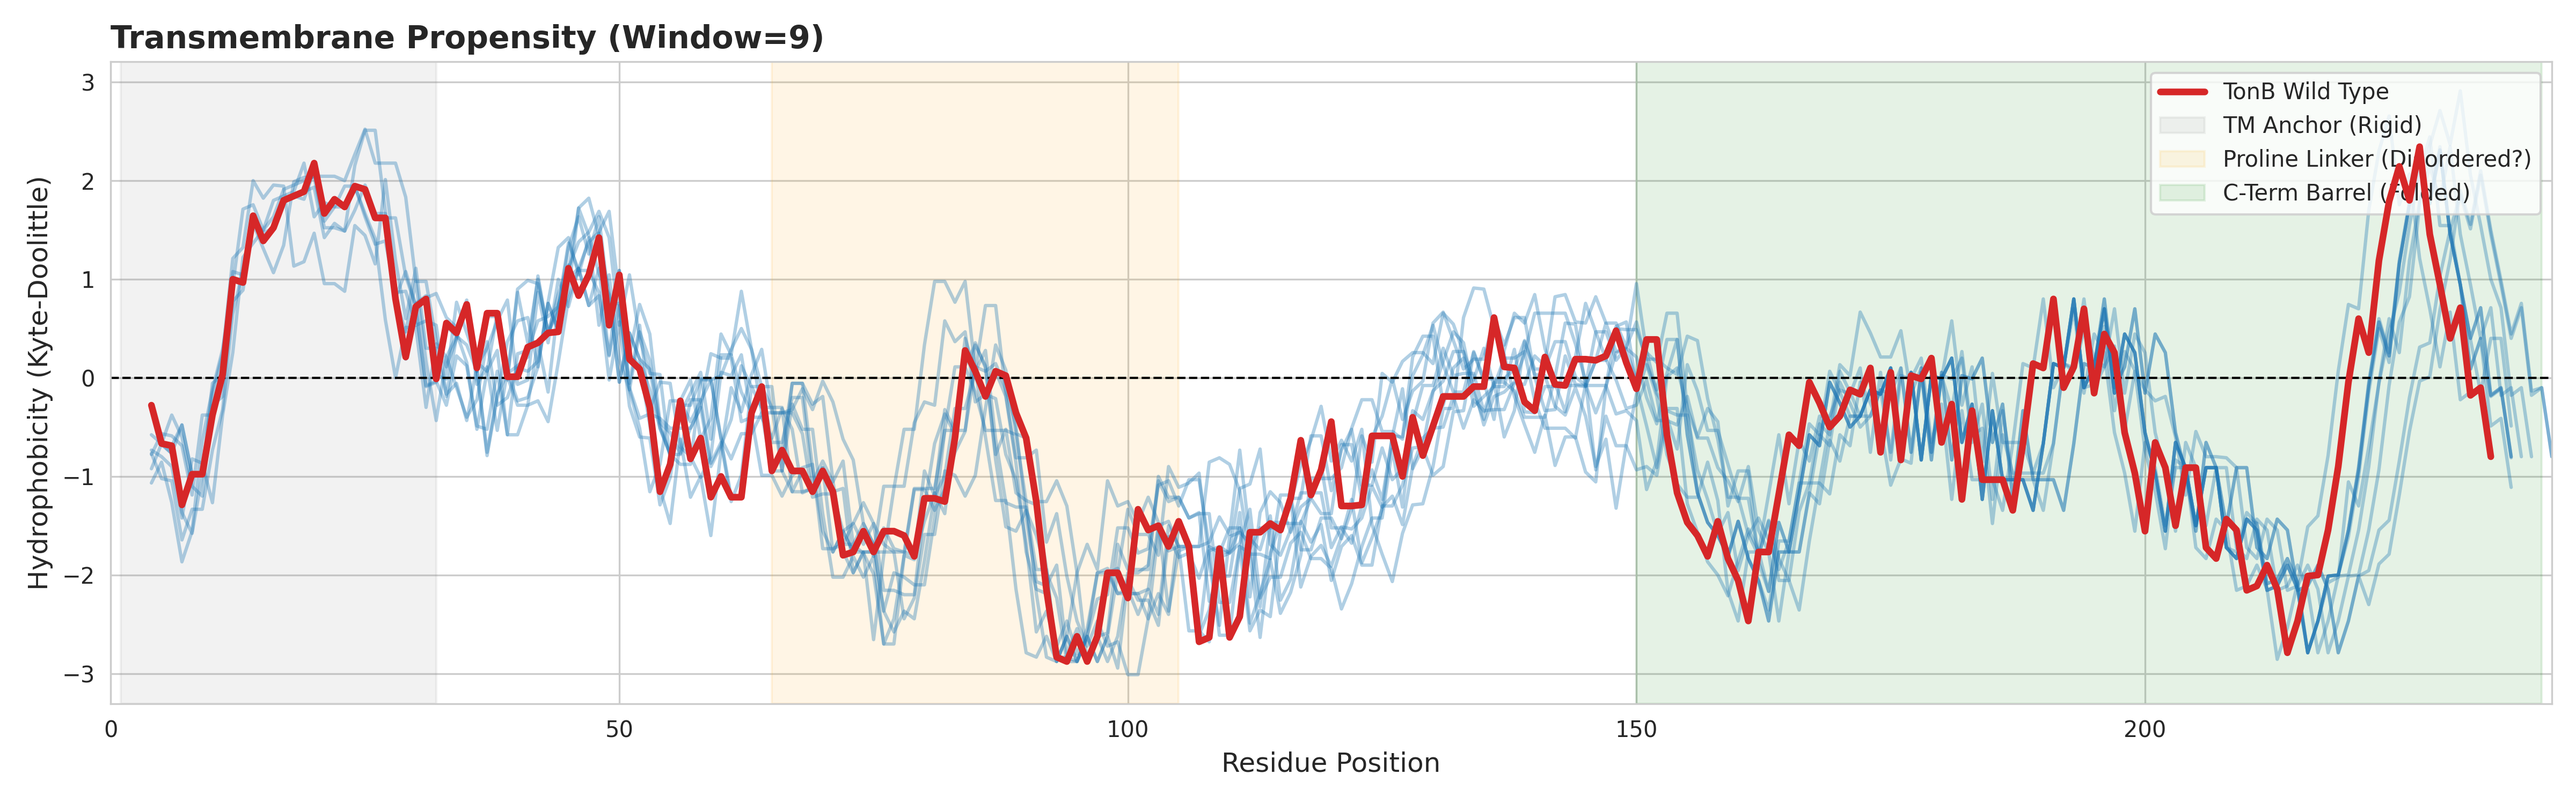
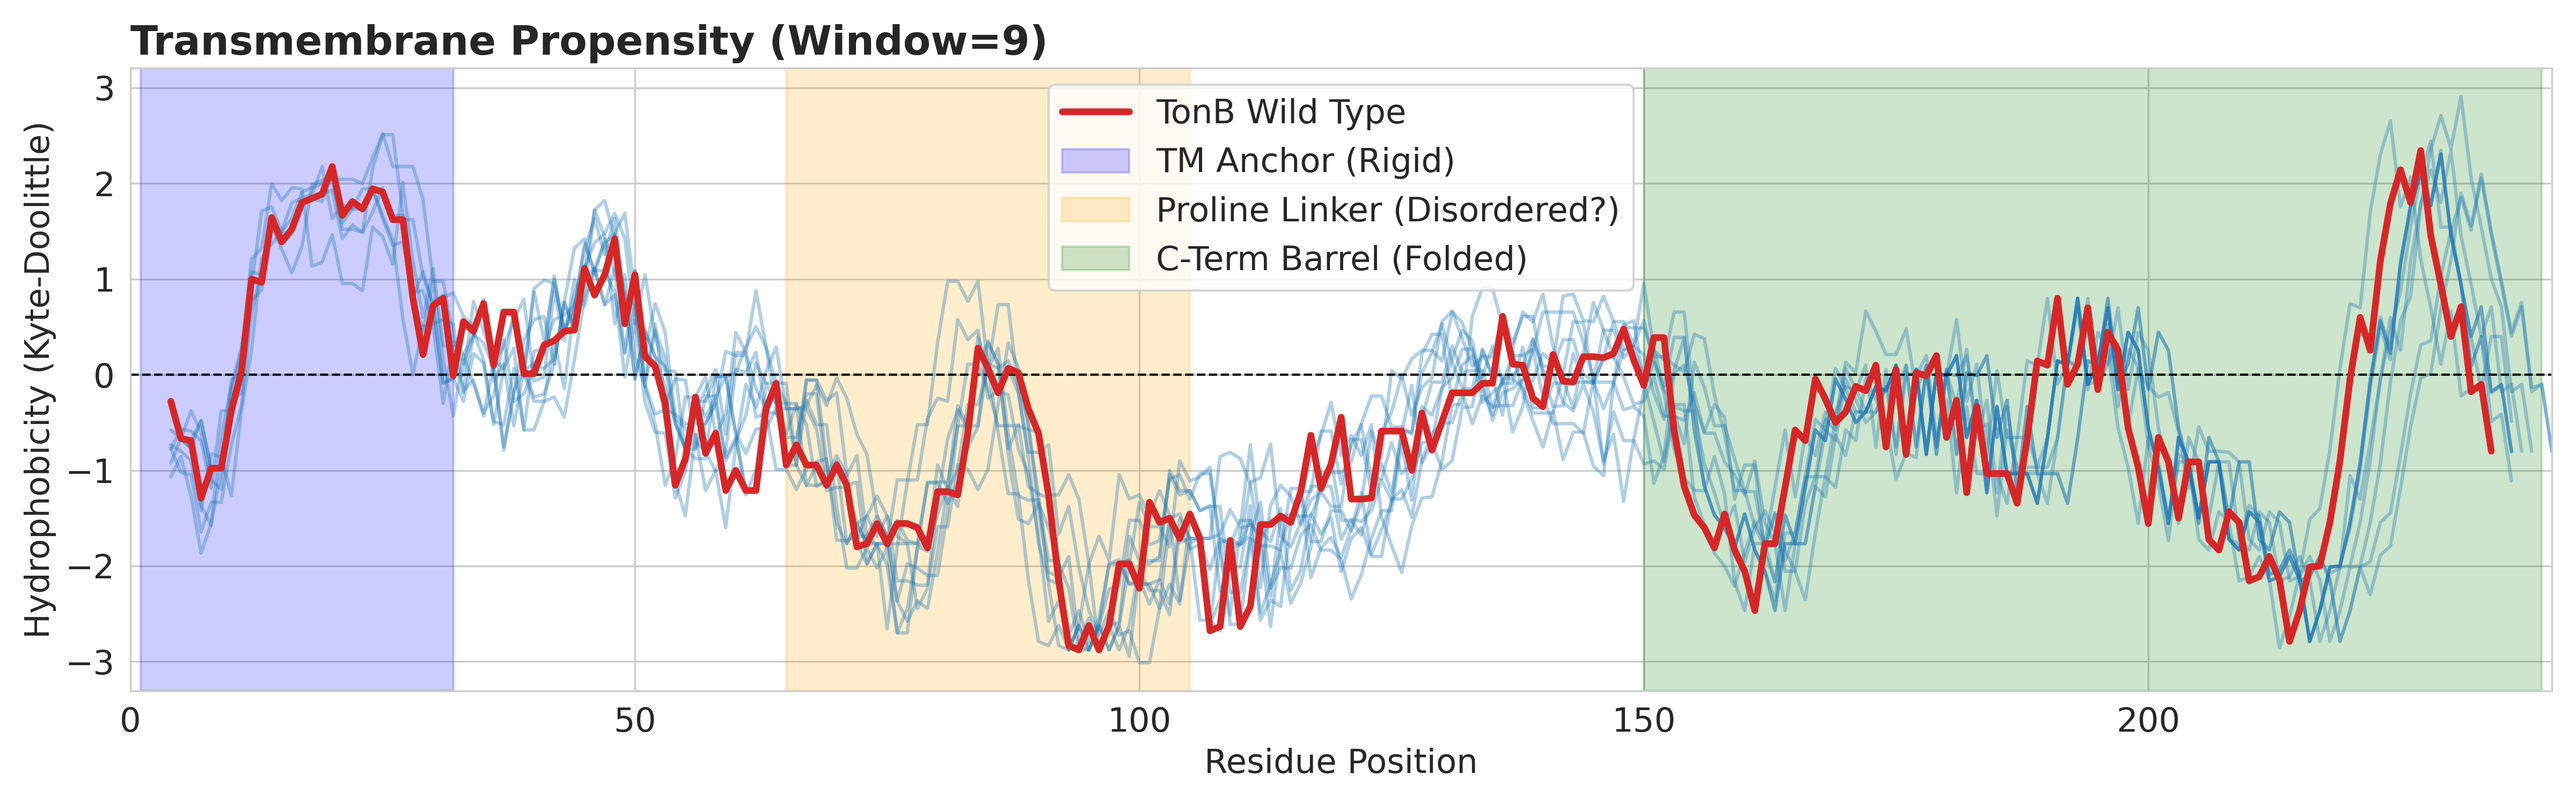
updated tonb feature analysis graphs, better visibility

diff --git a/TonB/analysis/feature_analysis/biochemical_analysis/biochemichal_analysis.py b/TonB/analysis/feature_analysis/biochemical_analysis/biochemichal_analysis.py
@@ -34,9 +34,9 @@ CHARGE_SCALE = {
 
 # Domini strutturali di TonB per coerenza visiva
 TONB_DOMAINS = [
-    {"start": 1, "end": 32, "color": "gray", "alpha": 0.1, "label": "TM Anchor (Rigid)"},
-    {"start": 65, "end": 105, "color": "orange", "alpha": 0.1, "label": "Proline Linker (Disordered?)"},
-    {"start": 150, "end": 239, "color": "green", "alpha": 0.1, "label": "C-Term Barrel (Folded)"}
+    {"start": 1, "end": 32, "color": "blue", "alpha": 0.2, "label": "TM Anchor (Rigid)"},
+    {"start": 65, "end": 105, "color": "orange", "alpha": 0.2, "label": "Proline Linker (Disordered?)"},
+    {"start": 150, "end": 239, "color": "green", "alpha": 0.2, "label": "C-Term Barrel (Folded)"}
 ]
 
 # -----------------------------------------------------------------------------
@@ -148,15 +148,17 @@ for config in plot_configs:
         
     ax.axhline(0 if "Flex" not in config["title"] else 1.0, color='black', linestyle='--', linewidth=1)
     
-    ax.set_xlabel("Residue Position", fontsize=12)
-    ax.set_ylabel(config["ylabel"], fontsize=12)
-    ax.set_title(config["title"], fontsize=14, fontweight='bold', loc='left')
+    ax.set_xlabel("Residue Position", fontsize=15)
+    ax.set_ylabel(config["ylabel"], fontsize=15)
+    ax.tick_params(axis='x', labelsize=15)
+    ax.tick_params(axis='y', labelsize=15)
+    ax.set_title(config["title"], fontsize=18, fontweight='bold', loc='left')
     ax.set_xlim(0, 240)
     
     # Legenda pulita
     handles, labels = ax.get_legend_handles_labels()
     by_label = dict(zip(labels, handles))
-    ax.legend(by_label.values(), by_label.keys(), loc='upper right')
+    ax.legend(by_label.values(), by_label.keys(),loc="best", fontsize = 15)
 
     plt.tight_layout()
     plt.savefig(f"{OUTPUT_DIR}/{config['filename']}", dpi=300)
@@ -169,9 +171,9 @@ print("Generazione Plot 2: Global Biochemical Boxplots...")
 fig, axes = plt.subplots(1, 3, figsize=(18, 6))
 
 metrics = [
-    ("Isoelectric_Point", "pI (Isoelectric Point)", "Il pI determina la carica a pH neutro"),
-    ("Instability_Index", "Instability Index", "< 40 indica una proteina stabile in vivo"),
-    ("GRAVY", "GRAVY (Global Hydrophobicity)", "Valori positivi = Idrofobica")
+    ("Isoelectric_Point", "Isoelectric Point", "pI"),
+    ("Instability_Index", "Instability Index", "Instability index"),
+    ("GRAVY", "GRAVY (Global Hydrophobicity)", "GRAVY")
 ]
 
 wt_row = df_global[df_global["Type"] == "Wild Type"].iloc[0]
@@ -181,16 +183,16 @@ for i, (col, title, desc) in enumerate(metrics):
     
     sns.boxplot(
         data=df_global[df_global["Type"] == "Generated (ESM-2)"], 
-        y=col, color="white", ax=ax, width=0.4, showfliers=False,
-        boxprops=dict(edgecolor='#1f77b4', linewidth=2),
-        whiskerprops=dict(color='#1f77b4', linewidth=2),
-        capprops=dict(color='#1f77b4', linewidth=2),
-        medianprops=dict(color='#1f77b4', linewidth=2)
+        y=col, color="white", ax=ax, width=0.8, showfliers=False,
+        boxprops=dict(edgecolor='#1f77b4', linewidth=4),
+        whiskerprops=dict(color='#1f77b4', linewidth=4),
+        capprops=dict(color='#1f77b4', linewidth=4),
+        medianprops=dict(color='#1f77b4', linewidth=4)
     )
     
     sns.stripplot(
         data=df_global[df_global["Type"] == "Generated (ESM-2)"], 
-        y=col, color="#1f77b4", alpha=0.5, size=5, ax=ax, jitter=True
+        y=col, color="#1f77b4", alpha=0.5, size=8, ax=ax, jitter=True
     )
     
     ax.scatter(0, wt_row[col], color='#d62728', marker='*', s=400, edgecolor='black', zorder=10, label="TonB WT")
@@ -198,12 +200,13 @@ for i, (col, title, desc) in enumerate(metrics):
     if col == "Instability_Index":
         ax.axhline(40, color='red', linestyle=':', label='Stability Threshold (40)')
 
-    ax.set_title(title, fontweight='bold', fontsize=13)
-    ax.set_ylabel(desc, fontsize=11)
+    ax.set_title(title, fontweight='bold', fontsize=18)
+    ax.set_ylabel(desc, fontsize=15)
+    ax.tick_params(axis='y', labelsize=15)
     ax.set_xticks([]) 
-    ax.legend(loc="best")
+    ax.legend(loc="best", fontsize = 15)
 
-plt.suptitle("Global Biochemical Properties: ESM-2 Optimized vs Wild Type", fontsize=16, fontweight='bold')
+plt.suptitle("Global Biochemical Properties: ESM-2 Optimized vs Wild Type", fontsize=20, fontweight='bold')
 plt.tight_layout()
 plt.savefig(f"{OUTPUT_DIR}/2_Global_Metrics_Boxplots.png", dpi=300)
 plt.close()
